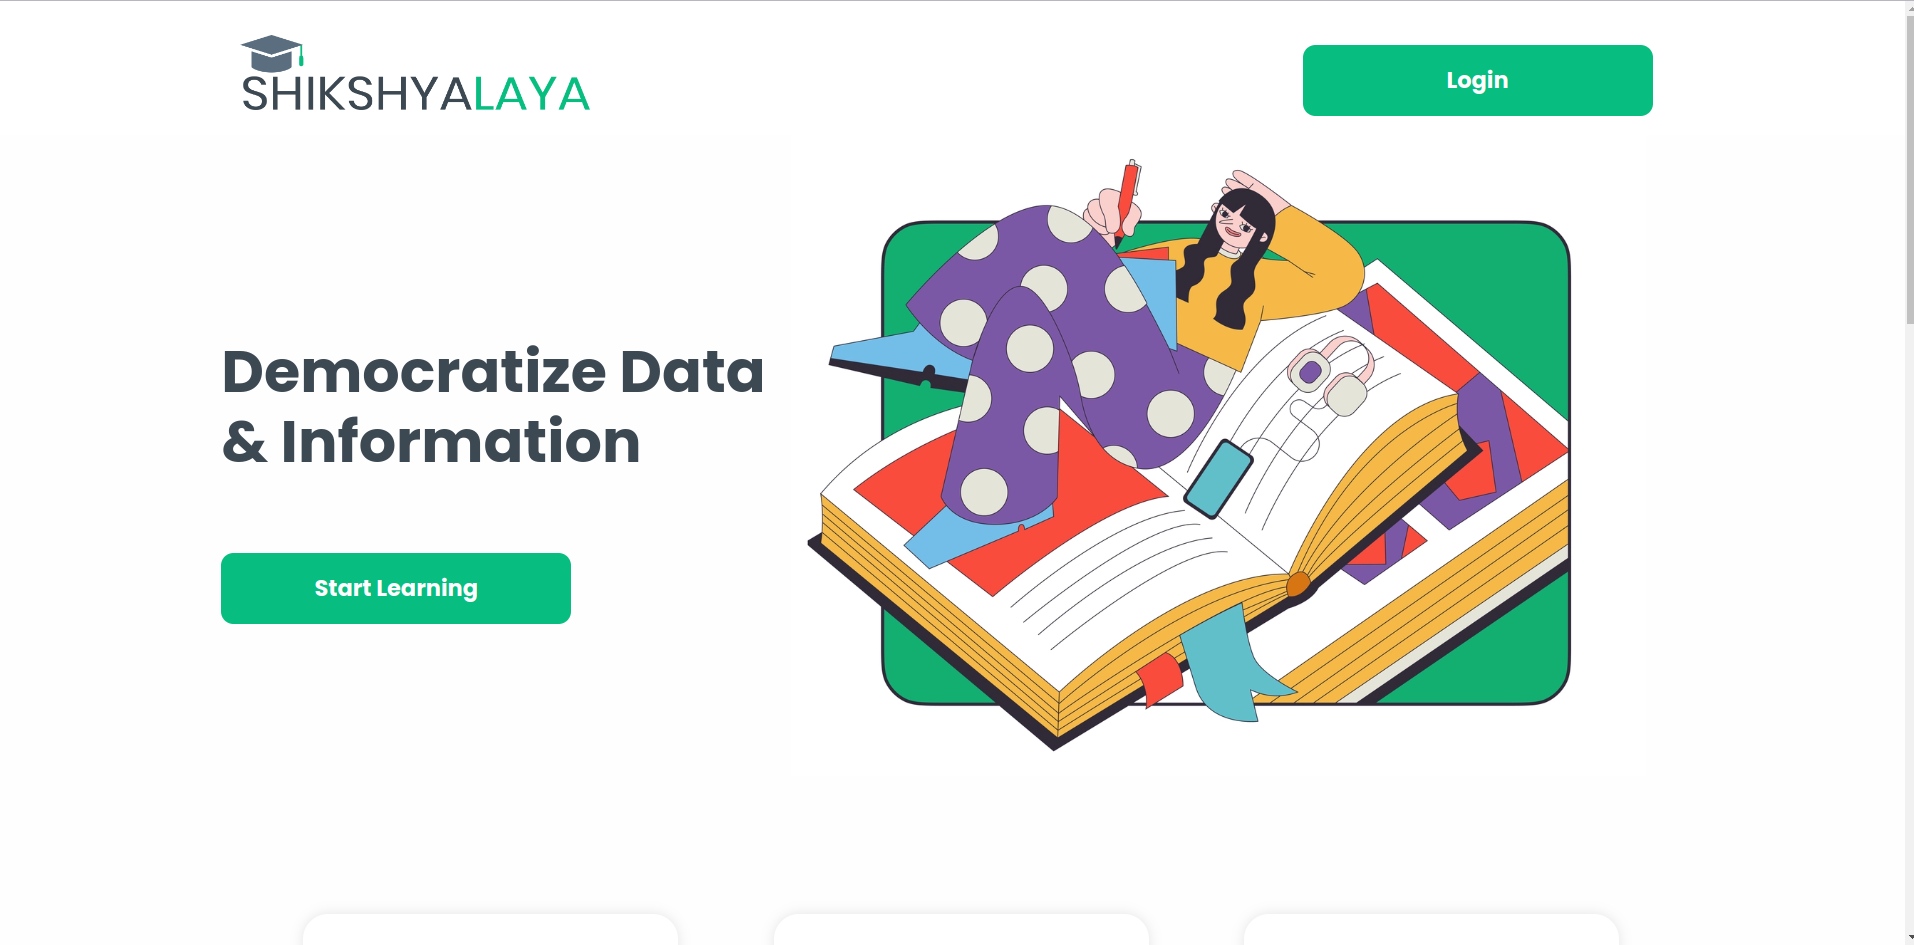
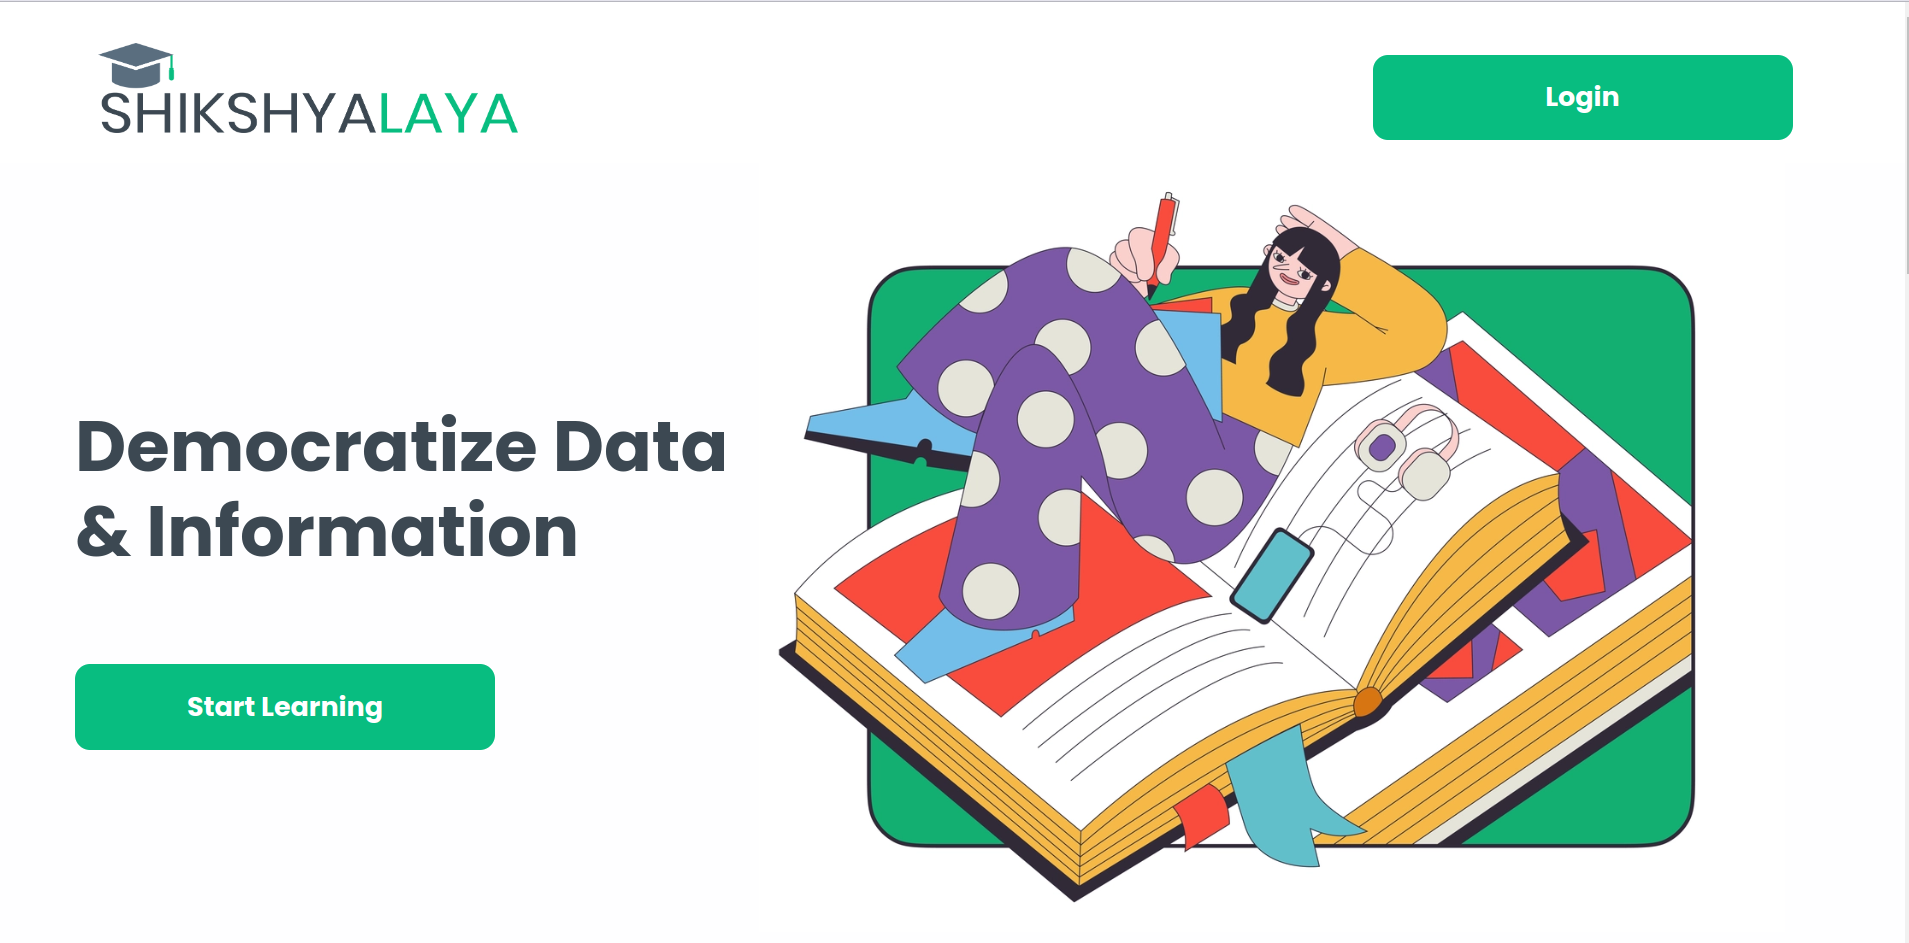
Add responsiveness to tablets

diff --git a/style.css b/style.css
@@ -235,7 +235,7 @@ a {
 
 /* MEDIA QUERIES */
 
-@media screen and (max-width: 600px) {
+@media screen and (max-width: 800px) {
   .sectionContent {
     flex-direction: column;
     gap: 2%;
@@ -277,8 +277,7 @@ a {
 
   .main .heading h1 {
     font-size: 1.8rem;
-
-    margin-bottom: 5%;
+    margin-bottom: 10%;
   }
 
   .main .mainContainer {
@@ -330,5 +329,62 @@ a {
 @media screen and (min-width: 1063px) {
   .main .projectContainer:hover {
     transform: scale(1.08);
+  }
+}
+
+@media screen and (min-width: 800px) and (max-width: 1047px) {
+  .sectionContent img {
+    width: clamp(370px, 50%, 450px);
+  }
+
+  .sectionContent .aboutMe h1 {
+    font-size: 1.3rem;
+  }
+  .sectionContent .aboutMe p {
+    /* font-size: 0.7rem; */
+    font-size: clamp(0.75rem, 1.2vw, 1.1rem);
+  }
+  .sectionContent .aboutMe .socialMediaLinks i {
+    font-size: 1.4rem;
+  }
+  .main .heading h1 {
+    font-size: 1.3rem;
+    margin-bottom: 3%;
+  }
+  .main .mainContainer {
+    grid-template-columns: repeat(auto-fit, minmax(290px, 1fr));
+    grid-auto-rows: 450px;
+  }
+  .main .projectContainer .projectDetails .topSection h2 {
+    font-size: 1.2rem;
+  }
+
+  .main .projectContainer .projectDetails i {
+    font-size: 1.4rem;
+  }
+
+  .main .projectContainer .projectDetails img {
+    width: 25px;
+    height: 25px;
+  }
+
+  .main .projectContainer .projectDetails .description {
+    font-size: clamp(0.75rem, 1.2vw, 1.1rem);
+    padding-bottom: 2%;
+  }
+
+  .footer h1 {
+    font-size: 1.3rem;
+  }
+  .footer p {
+    font-size: clamp(0.75rem, 1.2vw, 1.1rem);
+  }
+
+  .footer img {
+    width: 25px;
+  }
+
+  .footer .logos i {
+    font-size: 1.4rem;
   }
 }
